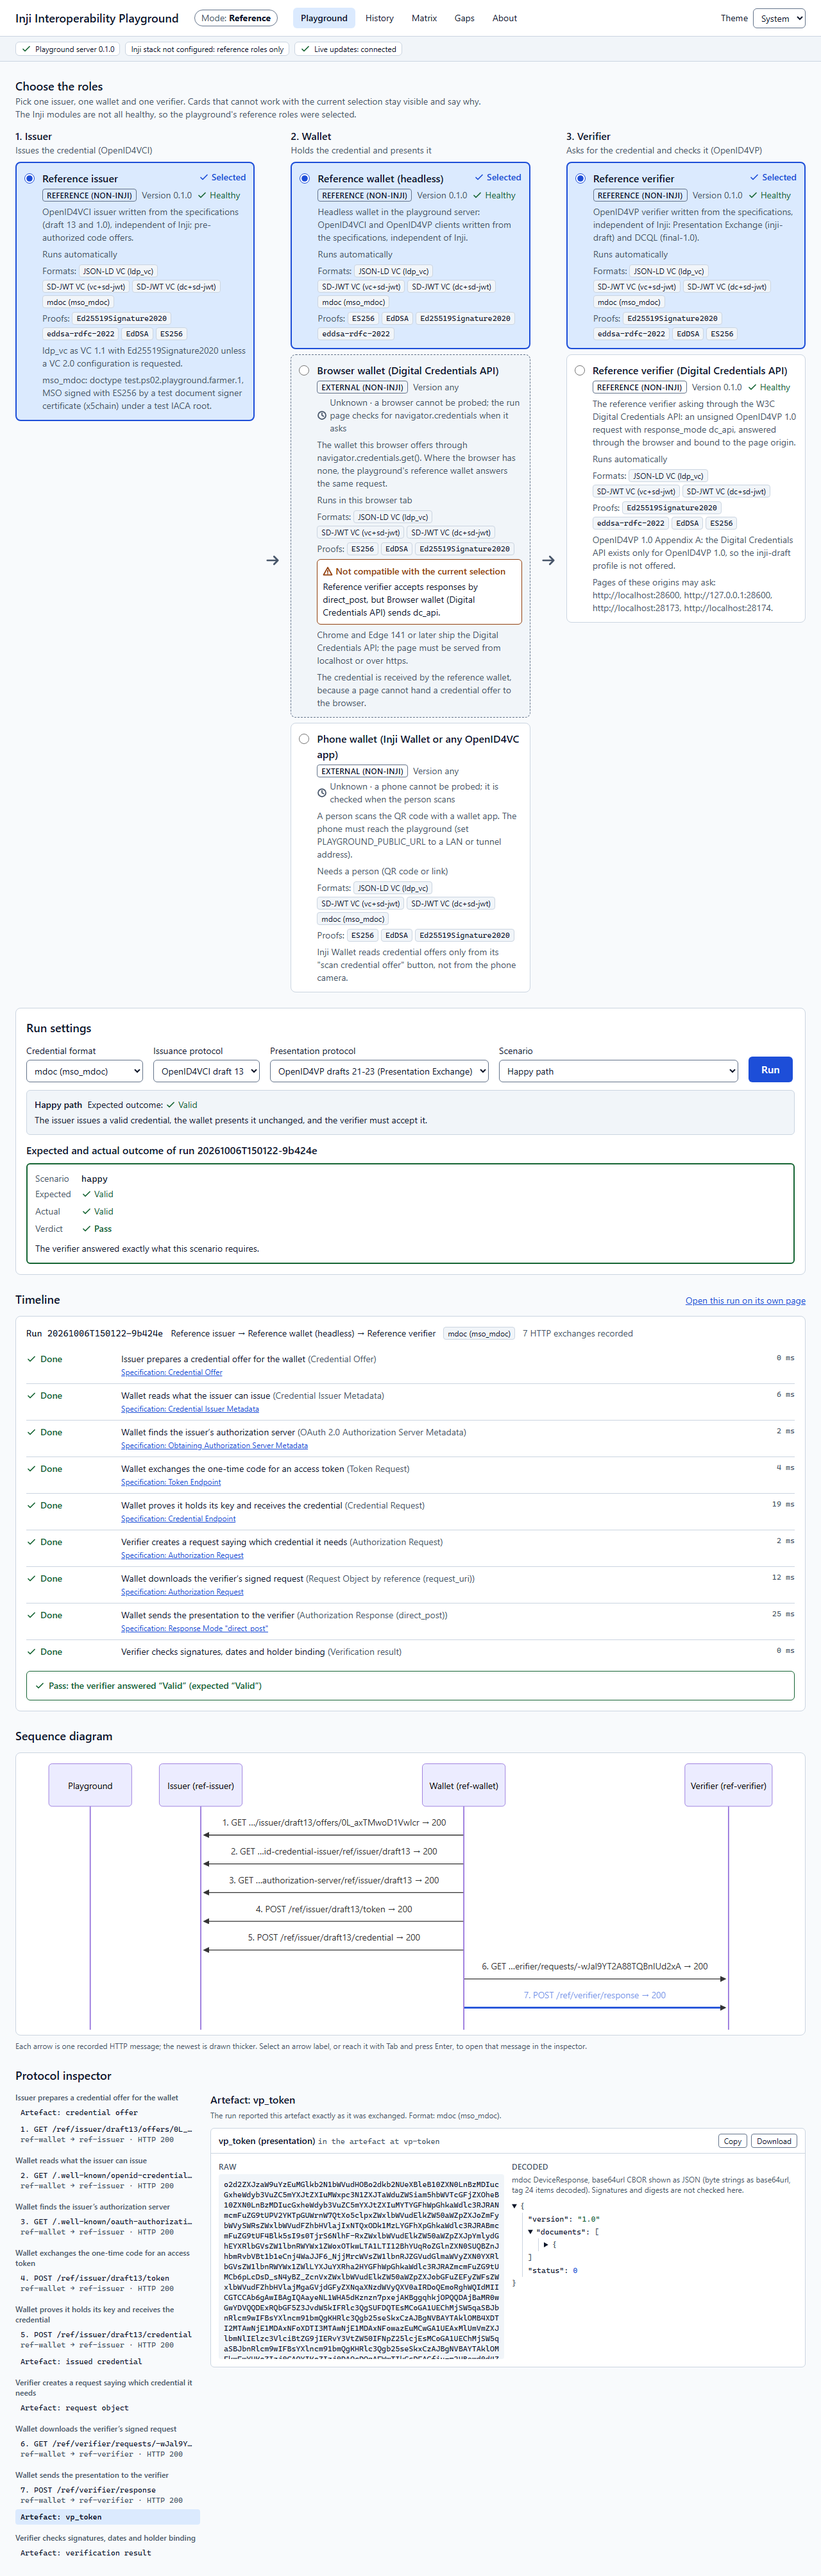
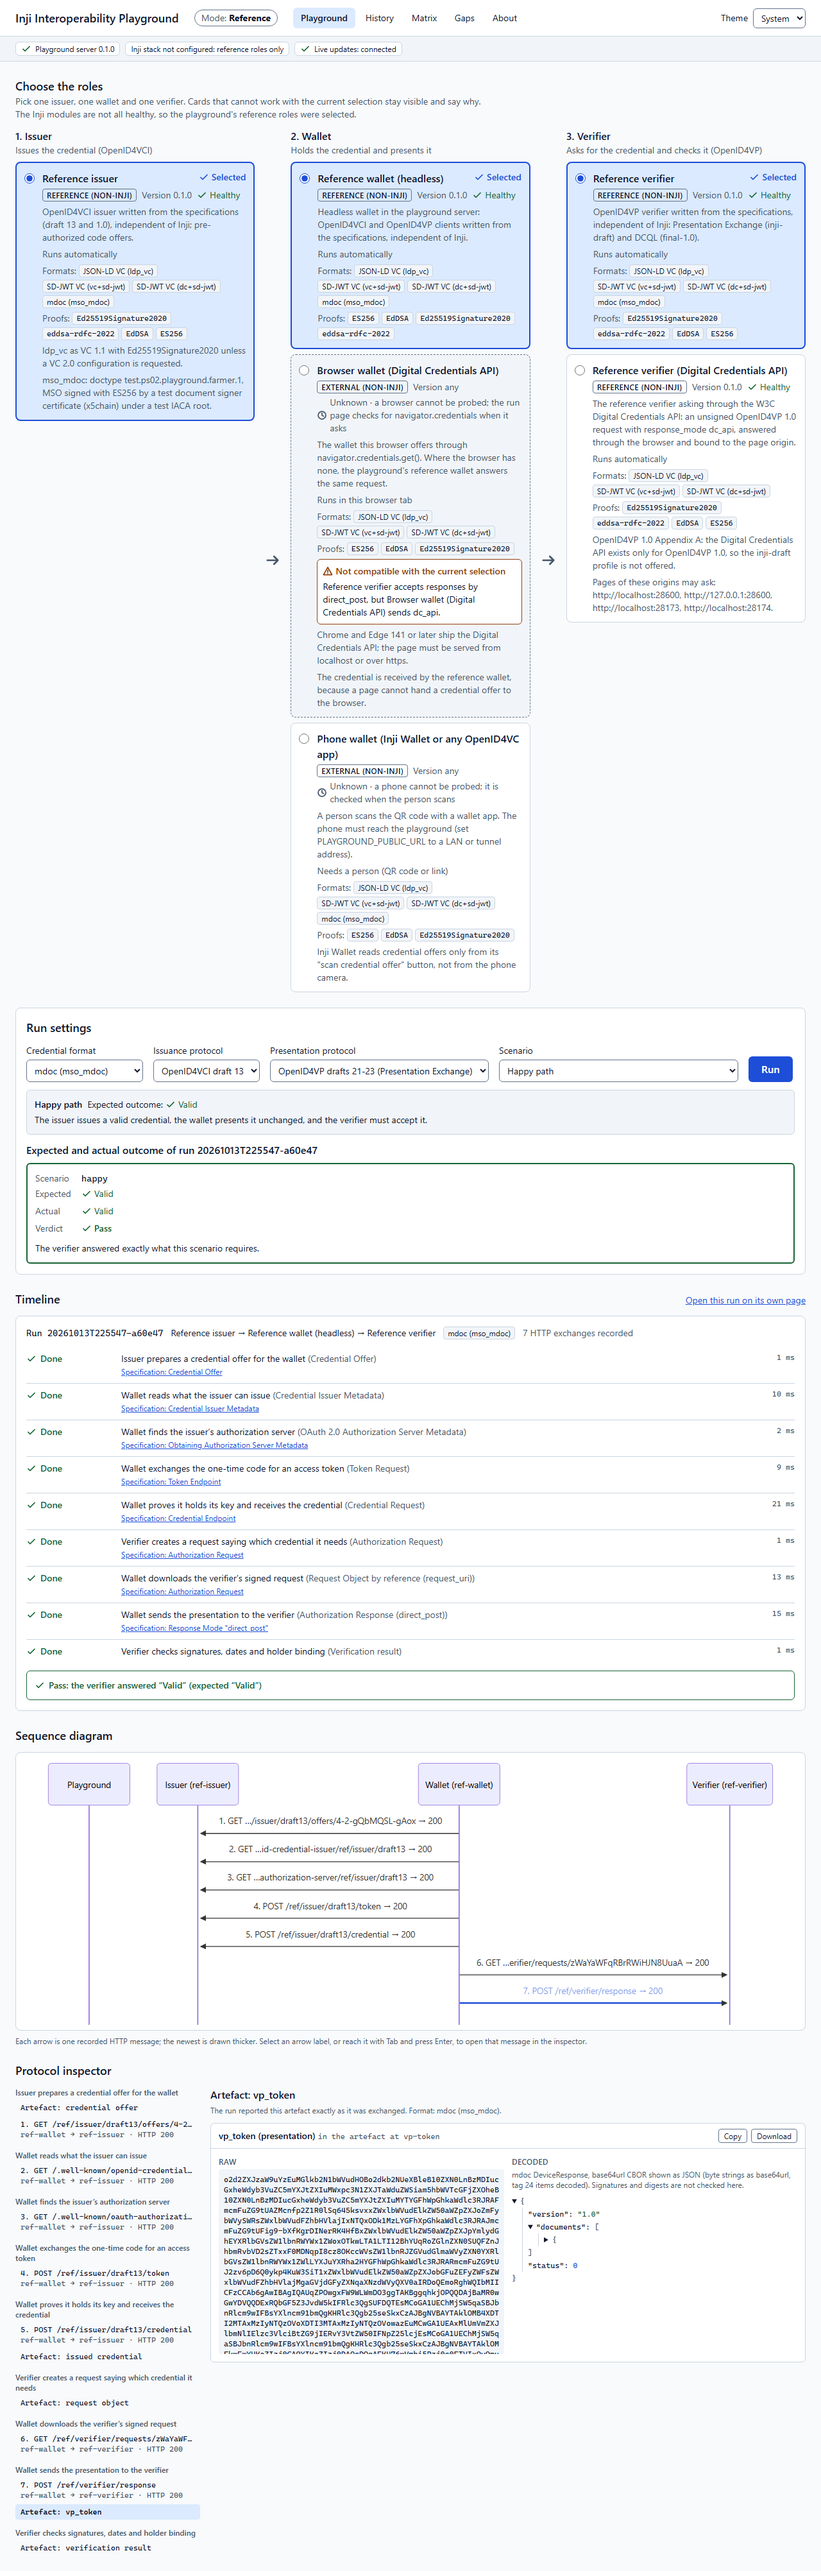
test(web): cover the revoked scenario in the browser and refresh the UX screenshots

diff --git a/packages/web/e2e/playground.spec.ts b/packages/web/e2e/playground.spec.ts
@@ -100,6 +100,30 @@ test('mso_mdoc happy path: the inspector shows the CBOR vp_token as JSON', async
   await expectAccessible(page);
 });
 
+test('revoked credential: the verifier reads the status list and refuses the credential', async ({
+  page,
+}) => {
+  await page.goto('/');
+  await chooseReferenceTrio(page);
+  await page.getByLabel('Credential format').selectOption('vc+sd-jwt');
+  await page.getByLabel('Scenario').selectOption('revoked');
+  await expect(page.getByTestId('scenario-expectation')).toContainText('Expected outcome: Invalid');
+  await page.getByRole('button', { name: 'Run' }).click();
+  await finishedRunId(page);
+  const result = page.getByRole('region', { name: /Expected and actual outcome of run/ });
+  await expect(result.getByTestId('actual-outcome')).toContainText('Invalid');
+  await expect(result).toContainText('The verifier answered exactly what this scenario requires.');
+  await page
+    .getByRole('button', { name: /Artefact: .*[Vv]erification.result/ })
+    .first()
+    .click();
+  const detail = page.getByTestId('artifact-detail');
+  await expect(detail).toContainText('STATUS_REVOKED');
+  await expect(detail).toContainText('status');
+  await shot(page, '16-revoked-status-check');
+  await expectAccessible(page);
+});
+
 test('matrix and history show stored runs, linked to their reports', async ({ page, request }) => {
   const created = await request.post(`${SERVER}/api/runs`, {
     data: { issuer: 'ref-issuer', wallet: 'ref-wallet', verifier: 'ref-verifier', format: 'ldp_vc' },

diff --git a/docs/ux/README.md b/docs/ux/README.md
@@ -1,7 +1,7 @@
 # User flow
 
 How a person uses the playground, shown with screenshots that the browser tests capture
-(`npm run e2e -- --screenshots`, Chromium, reference mode, 2026-10-06). Every screenshot comes from a real
+(`npm run e2e -- --screenshots`, Chromium, reference mode, 2026-10-14). Every screenshot comes from a real
 run against the playground server with its reference roles; nothing is mocked.
 
 ## 1. Choose the roles and the run
@@ -38,6 +38,14 @@ With a tamper scenario (here a key binding JWT bound to another nonce), the run 
 outcome next to the verifier's actual answer once the run ends, with a sentence that explains the result.
 
 ![Expected and actual outcome of a tamper run](screenshots/4-tamper-result.png)
+
+The "Revoked credential" scenario shows what a verifier does with a credential that carries a status entry.
+The reference issuer marks the credential revoked in its status list. The sequence diagram shows the
+verifier's extra request for the list (arrow 7, `GET /ref/issuer/status/token/EdDSA`). The verification
+result in the inspector has a `status` check that fails with `STATUS_REVOKED`, and the outcome is
+`Invalid`, as the scenario requires.
+
+![Revoked credential: the status list request and the failed status check](screenshots/16-revoked-status-check.png)
 
 ## 5. Compare combinations and track history
 
@@ -93,7 +101,7 @@ next to the raw base64url. Every page fits a 390 px wide phone screen without si
 
 - `npm run e2e` runs axe-core (WCAG 2.1 A and AA rules) in Chromium on the playground, run, playback,
   report, matrix, history, gaps, about and not-found pages and fails on any serious or critical violation;
-  on 2026-10-06 there were none. The run page had one until then: scrollable message bodies in the
+  on 2026-10-14 there were none. The run page had one until then: scrollable message bodies in the
   inspector could not be reached with the keyboard; they now take focus.
 - One test drives the happy path with the keyboard only: Tab to Run, Enter, Tab to the run, Enter, Tab to
   the report, Enter.
